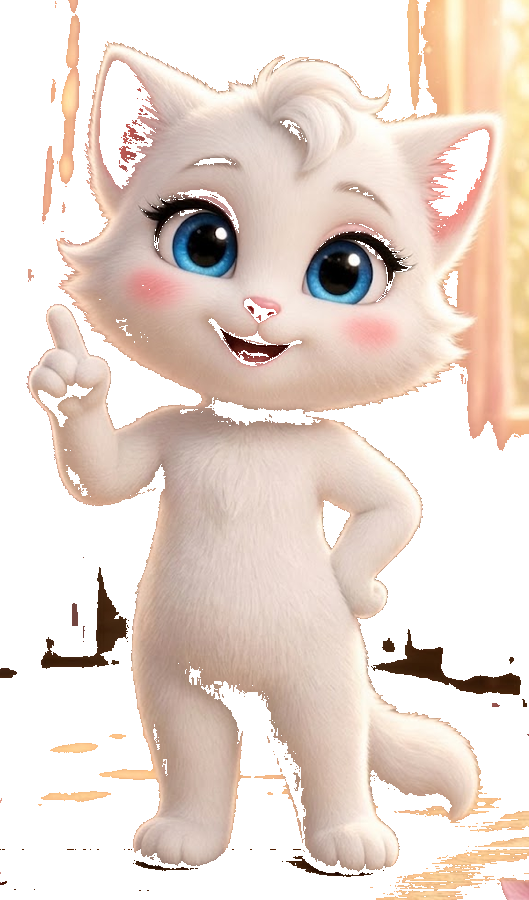
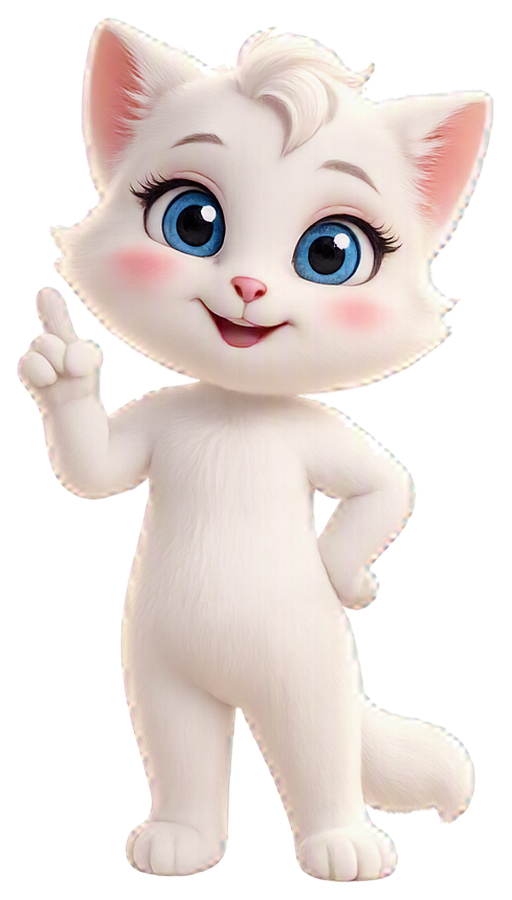
iPad1TalkingPet 1.4.1: sürüm içe aktarıldı (kaynak klasör: iPad1TalkingPet-v1.4.1)

diff --git a/apps/iPad1TalkingPet/README.md b/apps/iPad1TalkingPet/README.md
@@ -1,31 +1,42 @@
-# iPad1TalkingPet v1.4 — Neutral Base Clothing Rig
+# iPad1TalkingPet v1.4.1 — Clean Neutral Base Update
 
-## En önemli değişiklik
-Kıyafet sistemi artık eski kıyafetli karakter yerine `pet_base_neutral.png` kullanır.
+Bu sürümün amacı, gardırop sisteminin nihayet doğru bir temel karakter asset'i üzerinde çalışmasını sağlamaktır.
 
-Bu sayede:
-- kıyafet kıyafetin üstüne binmez
-- bel/kalça/gövde bölgeleri daha temiz görünür
-- ClothingRigManager maskeleri daha anlamlı çalışır
-- tişört/crop/pantolon/etek karakterin nötr anatomisine bağlanır
+## Değişiklik
+- `Resources/pet_base_neutral.png` temiz, gerçek alpha kanallı, transparan kıyafetsiz karakter ile değiştirildi.
+- Yeni neutral base, kullanıcı tarafından sağlanan şeffaf PNG'den kırpılıp uygulama ölçeğine uygun hale getirildi.
+- Kod mimarisi korunmuştur:
+  - `ClothingRigManager`
+  - torso / hips / left leg / right leg masks
+  - Style 1 için segmented clothing rig
+  - Style 2 için legacy overlay fallback
 
-## Mimari
-- neutral base character
-- ClothingRigManager
-- torso / hips / left leg / right leg masks
-- segmented top/bottom clothing
-- attachment-like transforms
-- no mesh engine / no physics
-- iPad 1 friendly
+## Neden önemli?
+Önceki denemelerde:
+- eski kıyafetli karakter üstüne yeni kıyafet biniyordu
+- veya arka plan temizliği bozuk asset yüzünden görüntü kirleniyordu
 
-## Not
-Bu sürümde nötr karakter görseli yüklenen referanstan hazırlanmıştır.
-Arka planı temizlemek için hafif alfa ayrıştırması uygulanmıştır.
-Gerçek cihazda kenar kalitesi ve olası arka plan kalıntıları kontrol edilmelidir.
+Bu sürümde artık temel karakter:
+- kıyafetsiz
+- temiz transparan
+- tek parça
+- gardırop sistemi için uygun
 
 ## Derleme
 ```bash
-cd ~/projects/iPad1TalkingPet-v1.4
+cd ~/projects/iPad1TalkingPet-v1.4.1
 rm -rf .theos packages
 FINALPACKAGE=1 make package
 ```
+
+## Test odağı
+Önce sadece şu kombinasyonları kontrol et:
+1. Tişört Stil 1 + Pantolon Stil 1
+2. Crop Stil 1 + Etek Stil 1
+
+Ardından:
+- jump
+- dance
+- wave
+- stretch
+sırasında kıyafet kayması var mı bak.

diff --git a/apps/iPad1TalkingPet/PROJECT_CONTEXT.md b/apps/iPad1TalkingPet/PROJECT_CONTEXT.md
@@ -1,26 +1,29 @@
 # PROJECT_CONTEXT
 
-Current version: 1.4.0
-Milestone: Neutral Base Clothing Rig
+Current version: 1.4.1
+Milestone: Clean Neutral Base Integration
 
 Platform:
-iPad 1 / iOS 5.1.1 / armv7 / non-ARC / 256 MB RAM.
+iPad 1 / Apple A4 / 256 MB RAM / iOS 5.1.1 / armv7 / Objective-C / Theos / non-ARC.
 
-## Key change
-The neutral unclothed character is now the primary pet base:
+## Key update
+The application now uses a proper transparent neutral base character:
 `Resources/pet_base_neutral.png`
 
-The previous clothed base remains only as historical fallback asset.
+This asset replaces the previously auto-extracted noisy neutral base.
 
-Clothing:
-- Style 1 uses ClothingRigManager + masks
-- Style 2 remains legacy overlay fallback until Style 1 is physically validated
+## Architecture kept
+- neutral base character
+- ClothingRigManager
+- torso / hips / left leg / right leg masks
+- segmented Style 1 clothing
+- legacy Style 2 clothing fallback
+- lightweight UIImageView/CALayer transform approach
 
 ## Immediate next action
-Build and test on the physical iPad:
-1. neutral character edges
-2. T-shirt Style 1
-3. Crop Style 1
-4. Pants Style 1
-5. Skirt Style 1
-6. wave/jump/dance/stretch
+Compile and physically test:
+1. neutral base visual quality
+2. T-shirt Style 1 + Pants Style 1
+3. Crop Style 1 + Skirt Style 1
+4. wave/jump/dance/stretch
+5. any halo or outline issues on light/dark room themes

diff --git a/apps/iPad1TalkingPet/SESSION.md b/apps/iPad1TalkingPet/SESSION.md
@@ -1,14 +1,14 @@
 # SESSION
 
-Current version: 1.4.0
-Status: Neutral Base Clothing Rig prepared; physical verification pending.
+Current version: 1.4.1
+Status: clean transparent neutral base integrated; device verification pending.
 
 Immediate next action:
 FINALPACKAGE=1 make package
 
-Critical checks:
-- no old shirt/shorts visible under new clothing
-- clothing feels attached to neutral body
-- no mask rectangles
-- no background remnants around neutral base
-- acceptable memory usage
+Priority checks on iPad 1:
+1. neutral base is clean and no stray background remains
+2. no old clothing appears under rig clothing
+3. Style 1 top/bottom alignment looks better than v1.4
+4. motion preserves clothing attachment
+5. memory/performance remains acceptable on device
